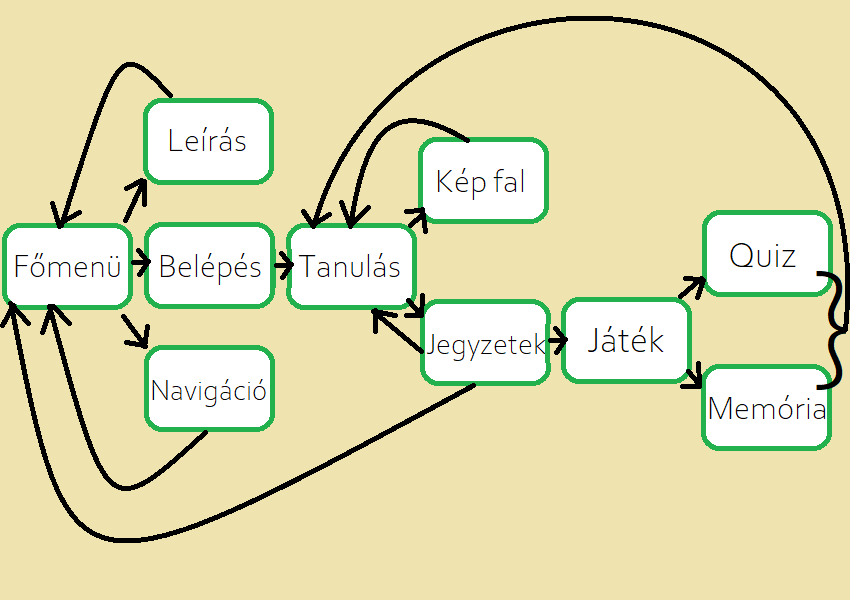
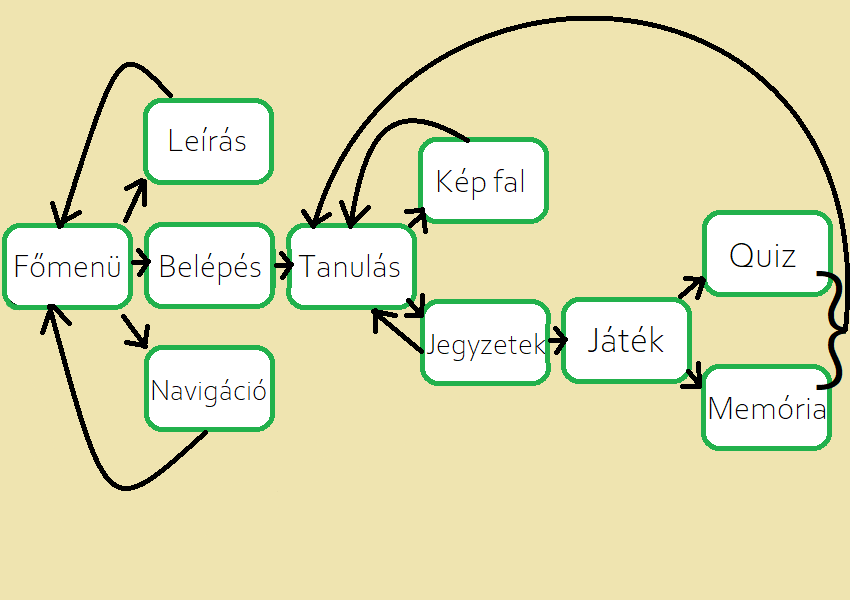
Adding textBlocks to notes, changing navigation image

diff --git a/Dogs/Dogs/Notes/Notes.xaml b/Dogs/Dogs/Notes/Notes.xaml
@@ -9,9 +9,9 @@
       Title="Notes">
 	<Grid>
 		<Grid.RowDefinitions>
-			<RowDefinition Height="5*"/>
-			<RowDefinition Height="26*"/>
-			<RowDefinition Height="3*"/>
+			<RowDefinition Height="6*"/>
+			<RowDefinition Height="24*"/>
+			<RowDefinition Height="4*"/>
 			<RowDefinition Height="23*"/>
 			<RowDefinition Height="3*"/>
 			<RowDefinition Height="24*"/>
@@ -22,19 +22,18 @@
 			<ColumnDefinition Width="36*"/>
 			<ColumnDefinition Width="31*"/>
 			<ColumnDefinition Width="9*"/>
-			<ColumnDefinition Width="31*"/>
-			<ColumnDefinition Width="8*"/>
+			<ColumnDefinition Width="30*"/>
+			<ColumnDefinition Width="9*"/>
 			<ColumnDefinition Width="31*"/>
 			<ColumnDefinition Width="9*"/>
 		</Grid.ColumnDefinitions>
 		<Grid.Background>
 			<ImageBrush ImageSource="notes.png" Stretch="Fill"/>
 		</Grid.Background>
-		<Button x:Name="BackToMain" Grid.Row="1" Grid.Column="1" Background="{x:Null}" BorderThickness="0" Margin="10,10,20,10" Click="BackToMain_Click">
-			<Viewbox>
-				<TextBlock>Főmenübe</TextBlock>
-			</Viewbox>
-		</Button>
+
+		<Viewbox Grid.Row="1" Grid.Column="1" Margin="10,0,20,0">
+			<TextBlock x:Name="dogName"></TextBlock>
+		</Viewbox>
 		<Button x:Name="BackToLearning" Grid.Row="3" Grid.Column="1" Background="{x:Null}" BorderThickness="0" Margin="10,10,20,10" Click="BackToLearning_Click">
 			<Viewbox>
 				<TextBlock>Tanuló <LineBreak/> oldalra</TextBlock>
@@ -46,8 +45,39 @@
 			</Viewbox>
 		</Button>
 		<Viewbox Grid.Row="1" Grid.Column="2">
-			<TextBlock MaxWidth="600" TextWrapping="Wrap" FontSize="40" VerticalAlignment="Center" TextAlignment="Justify">
-				A rómaiak terelő- és pásztorkutyaként tartották a mai rottweiler őseit. Így a világ egyik legrégebbi kutyafajtájának számít. A késő középkorban terjedt el a tartása, melyet napjainkban legfőképp szolgálati kutyaként használnak.
+			<TextBlock x:Name="tb1" MaxWidth="600" TextWrapping="Wrap" FontSize="40" VerticalAlignment="Center" TextAlignment="Justify">
+			</TextBlock>
+		</Viewbox>
+		<Viewbox Grid.Row="1" Grid.Column="4">
+			<TextBlock x:Name="tb2" MaxWidth="600" TextWrapping="Wrap" FontSize="40" VerticalAlignment="Center" TextAlignment="Justify">
+			</TextBlock>
+		</Viewbox>
+		<Viewbox Grid.Row="1" Grid.Column="6">
+			<TextBlock x:Name="tb3" MaxWidth="600" TextWrapping="Wrap" FontSize="40" VerticalAlignment="Center" TextAlignment="Justify">
+			</TextBlock>
+		</Viewbox>
+		<Viewbox Grid.Row="3" Grid.Column="2">
+			<TextBlock x:Name="tb4" MaxWidth="600" TextWrapping="Wrap" FontSize="40" VerticalAlignment="Center" TextAlignment="Justify">
+			</TextBlock>
+		</Viewbox>
+		<Viewbox Grid.Row="3" Grid.Column="4">
+			<TextBlock x:Name="tb5" MaxWidth="600" TextWrapping="Wrap" FontSize="40" VerticalAlignment="Center" TextAlignment="Justify">
+			</TextBlock>
+		</Viewbox>
+		<Viewbox Grid.Row="3" Grid.Column="6">
+			<TextBlock x:Name="tb6" MaxWidth="600" TextWrapping="Wrap" FontSize="40" VerticalAlignment="Center" TextAlignment="Justify">
+			</TextBlock>
+		</Viewbox>
+		<Viewbox Grid.Row="5" Grid.Column="2">
+			<TextBlock x:Name="tb7" MaxWidth="600" TextWrapping="Wrap" FontSize="40" VerticalAlignment="Center" TextAlignment="Justify">
+			</TextBlock>
+		</Viewbox>
+		<Viewbox Grid.Row="5" Grid.Column="4">
+			<TextBlock x:Name="tb8" MaxWidth="600" TextWrapping="Wrap" FontSize="40" VerticalAlignment="Center" TextAlignment="Justify">
+			</TextBlock>
+		</Viewbox>
+		<Viewbox Grid.Row="5" Grid.Column="6">
+			<TextBlock x:Name="tb9" MaxWidth="600" TextWrapping="Wrap" FontSize="40" VerticalAlignment="Center" TextAlignment="Justify">
 			</TextBlock>
 		</Viewbox>
 	</Grid>

diff --git a/Dogs/Dogs/Learn/Learn.xaml.cs b/Dogs/Dogs/Learn/Learn.xaml.cs
@@ -25,8 +25,10 @@ namespace Dogs.Learn
             InitializeComponent();
         }
 
-        private void ToNotePage() {
-            Page notes = new Notes.Notes();
+        private void ToNotePage(string Dogname)
+        {  
+            var notes = new Notes.Notes();
+            notes.dogName.Text = Dogname;
             Application.Current.MainWindow.Content = notes;
         }
 
@@ -38,57 +40,58 @@ namespace Dogs.Learn
 
         private void Komondor_Click(object sender, RoutedEventArgs e)
         {
-            ToNotePage();
+            ToNotePage("Komondor");
         }
 
         private void Agar_Click(object sender, RoutedEventArgs e)
         {
-            ToNotePage();
+            ToNotePage("Agár");
         }
 
         private void NemetJuhasz_Click(object sender, RoutedEventArgs e)
         {
-            ToNotePage();
+            ToNotePage("Németjuhász");
         }
 
         private void FranciaBulldog_Click(object sender, RoutedEventArgs e)
         {
-            ToNotePage();
+            ToNotePage("Francia bulldog");
         }
 
         private void Kuvasz_Click(object sender, RoutedEventArgs e)
         {
-            ToNotePage();
+            ToNotePage("Kuvasz");
         }
 
         private void Puli_Click(object sender, RoutedEventArgs e)
         {
-            ToNotePage();
+            ToNotePage("Puli");
         }
 
         private void ErdelyiKopo_Click(object sender, RoutedEventArgs e)
         {
-            ToNotePage();
+            ToNotePage("Erdelyi kopó");
         }
 
         private void Mudi_Click(object sender, RoutedEventArgs e)
         {
-            ToNotePage();
+            ToNotePage("Mudi");
         }
 
         private void Rottweiler_Click(object sender, RoutedEventArgs e)
         {
-            ToNotePage();
+            ToNotePage("Rottweiler");
         }
 
         private void Pumi_Click(object sender, RoutedEventArgs e)
         {
-            ToNotePage();
+            ToNotePage("Pumi");
+
         }
 
         private void Vizsla_Click(object sender, RoutedEventArgs e)
         {
-            ToNotePage();
+            ToNotePage("Vizsla");
         }
     }
 }
